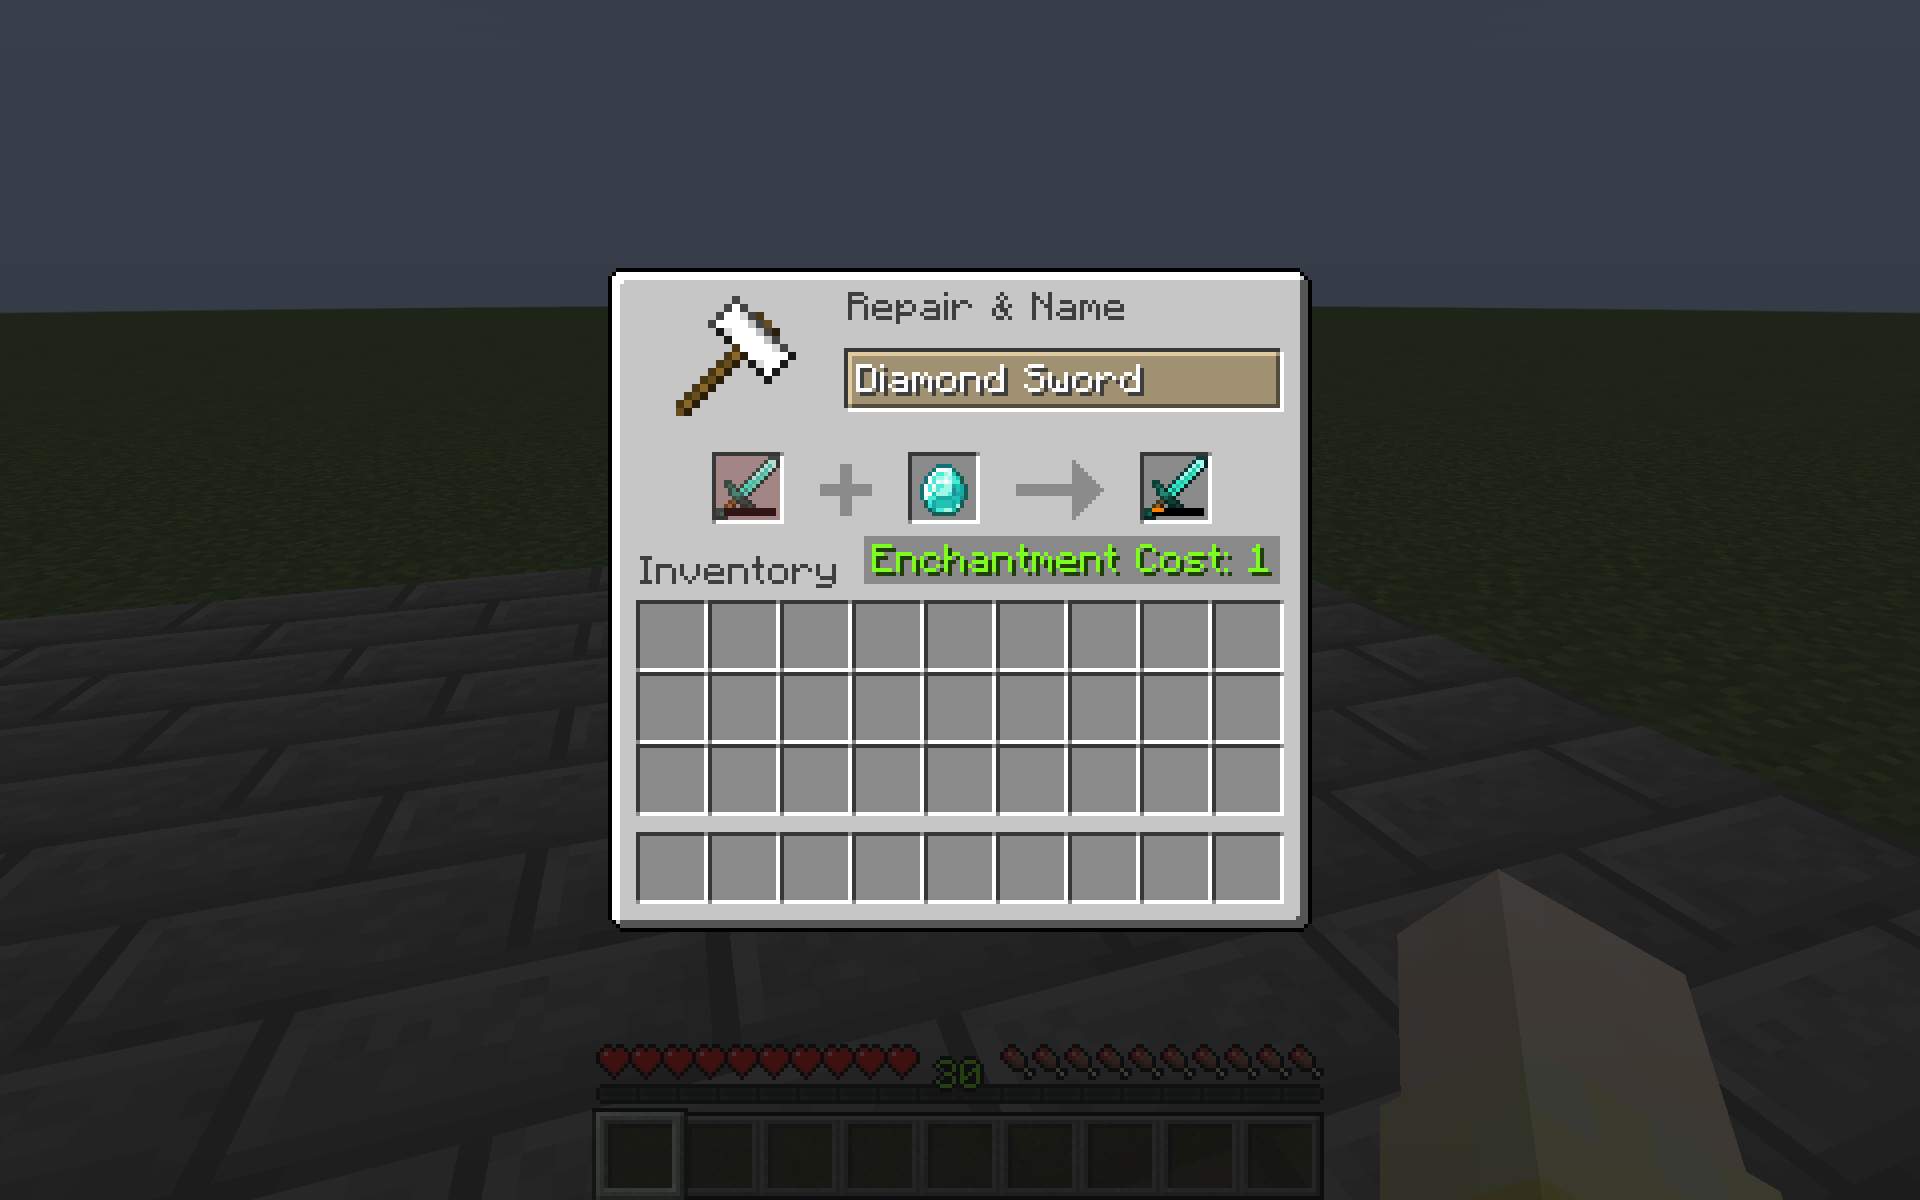
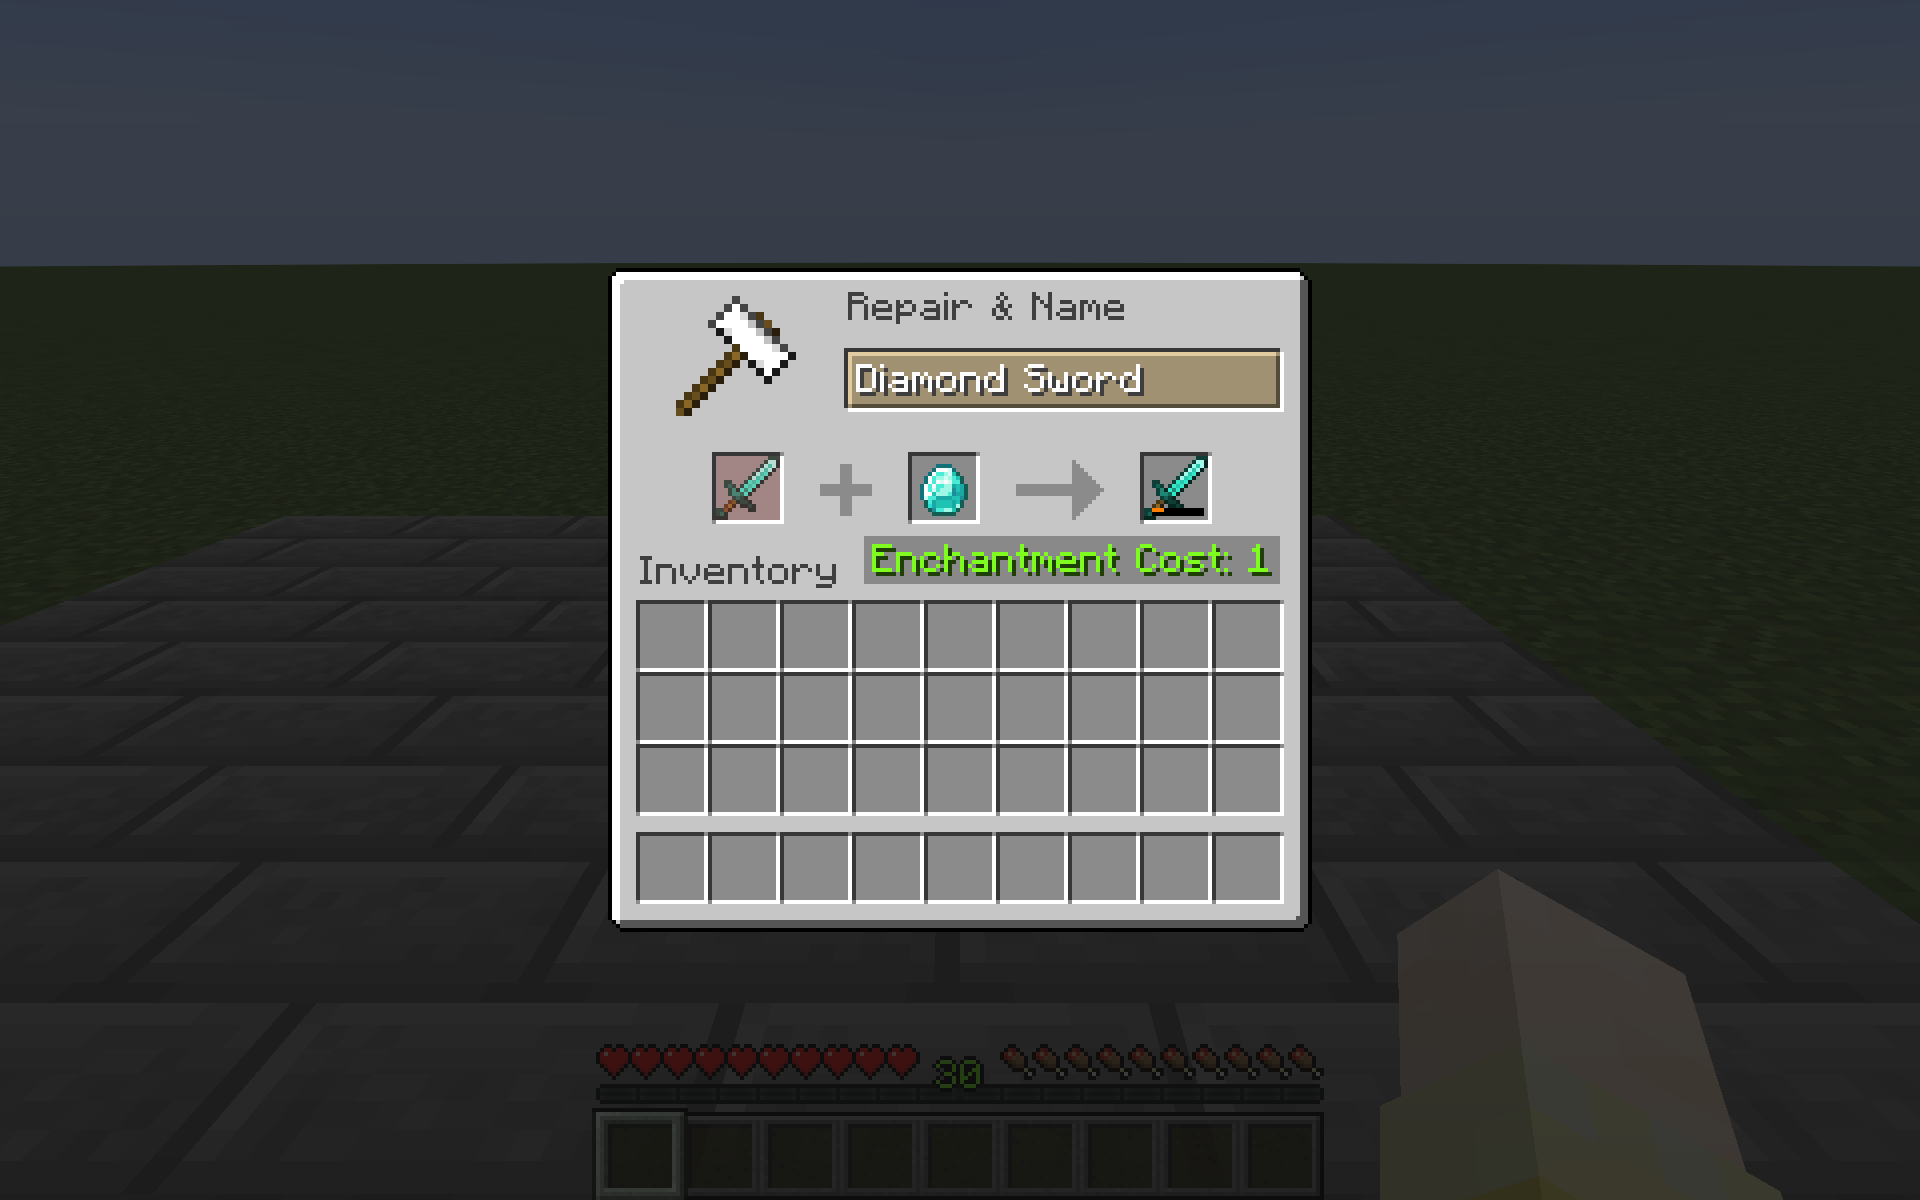
Refresh screenshots for Keep My Sword 1.1.0

Changed region(s): [[0.0, 0.2158, 1.0, 0.2775], [0.375, 0.4008, 0.4062, 0.4317]]

diff --git a/README.md b/README.md
@@ -12,6 +12,6 @@ Items in the `#keep_my_sword:excluded` item tag are ignored by this mod.
 
 ## Screenshots
 
-![Holding a diamond sword with no durability remaining](https://cdn.modrinth.com/data/pPO0fpz4/images/19a5e5cc31889737b9e131680073323976d9f2c6.png)
+![Holding a diamond sword with no durability remaining](https://cdn.modrinth.com/data/pPO0fpz4/images/e0971797aee78a779a76036dd26df0320808efc2.png)
 
-![Repairing the diamond sword in an anvil](https://cdn.modrinth.com/data/pPO0fpz4/images/a8ccbc01b2984fc7a66f056d0e5397eab365ea6a.png)
+![Repairing the diamond sword in an anvil](https://cdn.modrinth.com/data/pPO0fpz4/images/8b706cf65c468aa224bccbdf6b2e49eab90d7d08.png)
